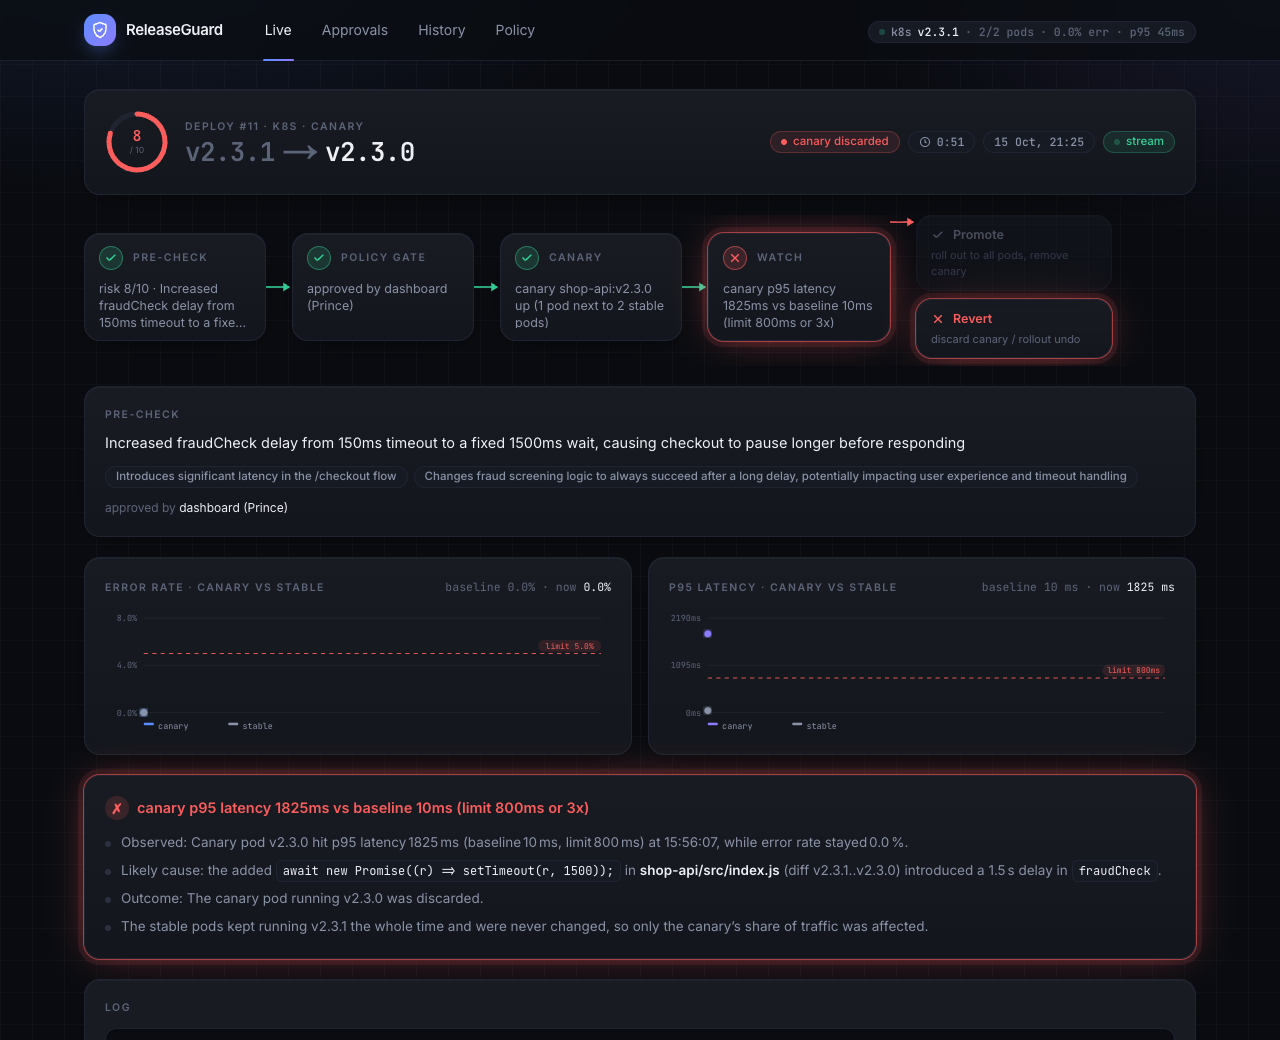
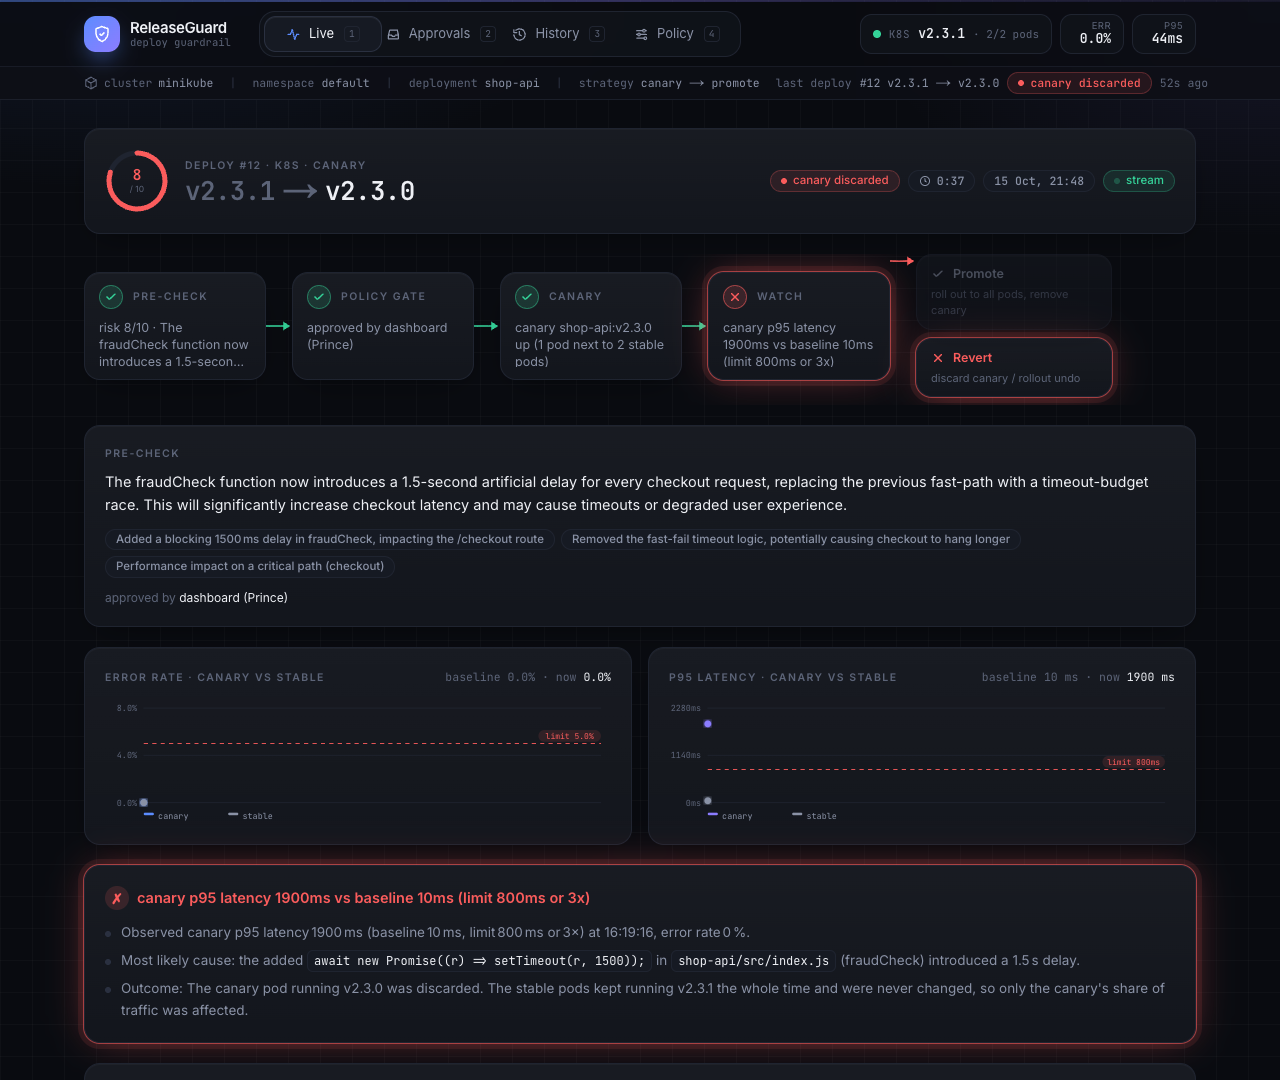
Dashboard: two-tier header with segmented tabs, status cluster, context strip and deploy progress bar

diff --git a/ui/components/Nav.tsx b/ui/components/Nav.tsx
@@ -1,47 +1,121 @@
 "use client";
 import Link from "next/link";
-import { usePathname } from "next/navigation";
-import { usePoll, type Approval, type Status } from "@/lib/api";
-import { Shield } from "./Icons";
+import { useEffect } from "react";
+import { usePathname, useRouter } from "next/navigation";
+import { usePoll, fmtTime, resultMeta, type Approval, type Status, type Deployment, type Config } from "@/lib/api";
+import { Shield, Activity, Inbox, History, Sliders, Cube } from "./Icons";
 
-const links = [["/", "Live"], ["/approvals/", "Approvals"], ["/history/", "History"], ["/policy/", "Policy"]] as const;
+const tabs = [
+  { href: "/", name: "Live", Icon: Activity, key: "1" },
+  { href: "/approvals/", name: "Approvals", Icon: Inbox, key: "2" },
+  { href: "/history/", name: "History", Icon: History, key: "3" },
+  { href: "/policy/", name: "Policy", Icon: Sliders, key: "4" },
+] as const;
+
+function ago(iso: string) {
+  const s = Math.max(0, Math.floor((Date.now() - new Date(iso).getTime()) / 1000));
+  if (s < 60) return `${s}s ago`; if (s < 3600) return `${Math.floor(s / 60)}m ago`; if (s < 86400) return `${Math.floor(s / 3600)}h ago`; return fmtTime(iso);
+}
 
 export function Nav() {
   const path = usePathname();
+  const router = useRouter();
   const { data: pending } = usePoll<Approval[]>("/api/approvals", 2000);
   const { data: st } = usePoll<Status>("/api/status", 5000);
+  const { data: latest } = usePoll<Deployment | null>("/api/deployments/latest", 3000);
+  const { data: cfg } = usePoll<Config>("/api/config", 30000);
   const n = pending?.length ?? 0;
+  const running = !!latest && !latest.result;
+  const activeIdx = tabs.findIndex((t) => (t.href === "/" ? path === "/" : path.startsWith(t.href.replace(/\/$/, ""))));
+
+  // keyboard: 1-4 switch tabs
+  useEffect(() => {
+    const h = (e: KeyboardEvent) => {
+      if (e.metaKey || e.ctrlKey || e.altKey || (e.target as HTMLElement)?.tagName === "INPUT") return;
+      const t = tabs.find((x) => x.key === e.key); if (t) router.push(t.href);
+    };
+    window.addEventListener("keydown", h); return () => window.removeEventListener("keydown", h);
+  }, [router]);
+
   return (
-    <header className="sticky top-0 z-20 backdrop-blur-md bg-bg/70 border-b border-line/80">
-      <div className="mx-auto max-w-6xl px-5 h-[60px] flex items-center gap-7">
-        <Link href="/" className="flex items-center gap-2.5 group">
-          <span className="grid place-items-center w-8 h-8 rounded-xl bg-gradient-to-br from-blue to-violet text-white shadow-[0_8px_20px_-8px_rgba(91,140,255,.9)]"><Shield className="w-4.5 h-4.5" /></span>
-          <span className="font-semibold tracking-tight text-[15px]">ReleaseGuard</span>
-        </Link>
-        <nav className="flex items-center gap-0.5 text-sm">
-          {links.map(([href, name]) => {
-            const active = href === "/" ? path === "/" : path.startsWith(href.replace(/\/$/, ""));
-            return (
-              <Link key={href} href={href} className={`relative px-3.5 py-2 rounded-lg transition-colors ${active ? "text-fg" : "text-mut hover:text-fg"}`}>
+    <header className="sticky top-0 z-20">
+      {/* progress hairline: animates while a deploy is running */}
+      <div className={`h-[2px] w-full ${running ? "bg-gradient-to-r from-blue via-violet to-ok shimmer-bar" : "bg-gradient-to-r from-blue/40 via-violet/30 to-transparent"}`} />
+      <div className="backdrop-blur-xl bg-bg/75 border-b border-line/80">
+        <div className="mx-auto max-w-6xl px-5 h-[64px] flex items-center gap-5">
+          {/* brand */}
+          <Link href="/" className="flex items-center gap-2.5 shrink-0">
+            <span className="relative grid place-items-center w-9 h-9 rounded-xl bg-gradient-to-br from-blue to-violet text-white shadow-[0_10px_24px_-8px_rgba(91,140,255,.9)]">
+              <Shield className="w-[18px] h-[18px]" />
+              {running && <span className="absolute -right-0.5 -top-0.5 w-2.5 h-2.5 rounded-full bg-ok border-2 border-bg dot-live" />}
+            </span>
+            <span className="leading-tight">
+              <span className="block font-semibold tracking-tight text-[15px]">ReleaseGuard</span>
+              <span className="block text-[10.5px] text-dim mono -mt-0.5">deploy guardrail</span>
+            </span>
+          </Link>
+
+          {/* segmented tabs */}
+          <nav className="relative ml-2 flex items-center p-1 rounded-2xl bg-panel/80 border border-line">
+            <span className="absolute top-1 bottom-1 rounded-xl bg-panel2 border border-line2 shadow-[inset_0_1px_0_rgba(255,255,255,.05)] transition-all duration-300 ease-[cubic-bezier(.2,.7,.2,1)]"
+              style={{ width: `calc((100% - 8px) / 4)`, left: `calc(4px + ${Math.max(0, activeIdx)} * ((100% - 8px) / 4))` }} />
+            {tabs.map(({ href, name, Icon, key }, i) => (
+              <Link key={href} href={href} className={`relative z-[1] flex items-center justify-center gap-2 w-[118px] h-9 rounded-xl text-[13px] transition-colors ${i === activeIdx ? "text-fg" : "text-mut hover:text-fg"}`}>
+                <Icon className={`w-[15px] h-[15px] ${i === activeIdx ? "text-blue" : ""}`} />
                 {name}
-                {name === "Approvals" && n > 0 && <span className="ml-1.5 pill pill-warn py-0.5 px-1.5">{n}</span>}
-                {active && <span className="absolute left-3 right-3 -bottom-[13px] h-[2px] rounded-full bg-gradient-to-r from-blue to-violet" />}
+                {name === "Approvals" && n > 0 && <span className="pill pill-warn py-0.5 px-1.5 ml-0.5 dot-live">{n}</span>}
+                <kbd className="hidden lg:inline text-[9.5px] text-dim mono border border-line rounded px-1 ml-0.5">{key}</kbd>
               </Link>
-            );
-          })}
-        </nav>
-        <div className="ml-auto">
-          {st?.running ? (
-            <div className="pill pill-mut mono text-[11px] py-1.5 pr-3">
-              <span className={`dot ${st.healthy ? "text-ok dot-live" : "text-bad"}`} />
-              <span className="text-mut">{st.target}</span>
-              <span className="text-fg">{st.running}</span>
-              {st.pods && <span className="text-dim">· {st.pods.ready}/{st.pods.desired} pods</span>}
-              <span className="text-dim">· {((st.errorRate ?? 0) * 100).toFixed(1)}% err · p95 {st.p95ms ?? "–"}ms</span>
-            </div>
-          ) : <div className="pill pill-mut mono text-[11px]"><span className="dot text-dim" />target offline</div>}
+            ))}
+          </nav>
+
+          {/* status cluster */}
+          <div className="ml-auto flex items-center gap-2">
+            {st?.running ? (
+              <>
+                <div className="hidden md:flex items-center gap-2 rounded-xl bg-panel/80 border border-line px-3 h-10">
+                  <span className={`relative flex w-2 h-2`}><span className={`absolute inset-0 rounded-full ${st.healthy ? "bg-ok" : "bg-bad"} opacity-60 animate-ping`} /><span className={`relative rounded-full w-2 h-2 ${st.healthy ? "bg-ok" : "bg-bad"}`} /></span>
+                  <span className="text-[11px] text-dim mono uppercase tracking-wider">{st.target}</span>
+                  <span className="text-[13px] mono text-fg font-semibold">{st.running}</span>
+                  {st.pods && <span className="text-[11px] text-dim mono">· {st.pods.ready}/{st.pods.desired} pods</span>}
+                </div>
+                <Stat label="err" value={`${((st.errorRate ?? 0) * 100).toFixed(1)}%`} tone={(st.errorRate ?? 0) > (cfg?.watch.rollback_if.error_rate_above ?? 0.05) ? "bad" : "ok"} />
+                <Stat label="p95" value={`${st.p95ms ?? "–"}ms`} tone={(st.p95ms ?? 0) > (cfg?.watch.rollback_if.p95_latency_above_ms ?? 800) ? "bad" : "ok"} />
+              </>
+            ) : <div className="pill pill-mut mono"><span className="dot text-dim" />target offline</div>}
+          </div>
+        </div>
+
+        {/* context strip */}
+        <div className="border-t border-line/60 bg-panel/40">
+          <div className="mx-auto max-w-6xl px-5 h-8 flex items-center gap-4 text-[11.5px] mono text-dim whitespace-nowrap overflow-hidden [&>*]:shrink-0">
+            <span className="flex items-center gap-1.5"><Cube className="w-3.5 h-3.5" />cluster <span className="text-mut">minikube</span></span>
+            <span className="text-line2">|</span>
+            <span>namespace <span className="text-mut">default</span></span>
+            <span className="text-line2">|</span>
+            <span>deployment <span className="text-mut">{cfg?.k8s.deployment ?? "shop-api"}</span></span>
+            <span className="text-line2">|</span>
+            <span>strategy <span className="text-mut">{cfg?.k8s.canary ? "canary → promote" : "rolling update"}</span></span>
+            {latest && (
+              <Link href="/" className="ml-auto flex items-center gap-2 hover:text-fg transition-colors">
+                <span className="text-dim">last deploy</span>
+                <span className="text-mut">#{latest.id} {latest.previous ?? "–"} → {latest.version}</span>
+                <span className={`pill ${resultMeta[latest.result ?? "running"].pill} py-0.5`}><span className={`dot ${running ? "dot-live" : ""}`} />{resultMeta[latest.result ?? "running"].label}</span>
+                <span className="text-dim">{ago(latest.started_at)}</span>
+              </Link>
+            )}
+          </div>
         </div>
       </div>
     </header>
+  );
+}
+
+function Stat({ label, value, tone }: { label: string; value: string; tone: "ok" | "bad" }) {
+  return (
+    <div className="hidden sm:flex flex-col items-end justify-center rounded-xl bg-panel/80 border border-line px-3 h-10 min-w-[64px]">
+      <span className="text-[9.5px] uppercase tracking-wider text-dim leading-none">{label}</span>
+      <span className={`text-[13px] mono font-semibold leading-tight ${tone === "bad" ? "text-bad" : "text-fg"}`}>{value}</span>
+    </div>
   );
 }

diff --git a/ui/components/Icons.tsx b/ui/components/Icons.tsx
@@ -6,3 +6,8 @@ export const X = ({ className = "" }: { className?: string }) => (<svg viewBox="
 export const Spinner = ({ className = "" }: { className?: string }) => (<svg viewBox="0 0 24 24" className={`${className} animate-spin`} fill="none" stroke="currentColor" strokeWidth="2.5" strokeLinecap="round"><path d="M12 3a9 9 0 1 0 9 9" /></svg>);
 export const Bolt = ({ className = "" }: { className?: string }) => (<svg viewBox="0 0 24 24" className={className} fill="none" stroke="currentColor" strokeWidth="2" strokeLinejoin="round"><path d="M13 2L4 14h7l-1 8 9-12h-7l1-8z"/></svg>);
 export const Clock = ({ className = "" }: { className?: string }) => (<svg viewBox="0 0 24 24" className={className} fill="none" stroke="currentColor" strokeWidth="2" strokeLinecap="round"><circle cx="12" cy="12" r="9"/><path d="M12 7v5l3 2"/></svg>);
+export const Activity = ({ className = "" }: { className?: string }) => (<svg viewBox="0 0 24 24" className={className} fill="none" stroke="currentColor" strokeWidth="2" strokeLinecap="round" strokeLinejoin="round"><path d="M3 12h4l3-8 4 16 3-8h4"/></svg>);
+export const Inbox = ({ className = "" }: { className?: string }) => (<svg viewBox="0 0 24 24" className={className} fill="none" stroke="currentColor" strokeWidth="2" strokeLinecap="round" strokeLinejoin="round"><path d="M4 13l2-8h12l2 8v6H4z"/><path d="M4 13h5l1.5 2h3L15 13h5"/></svg>);
+export const History = ({ className = "" }: { className?: string }) => (<svg viewBox="0 0 24 24" className={className} fill="none" stroke="currentColor" strokeWidth="2" strokeLinecap="round" strokeLinejoin="round"><path d="M3 12a9 9 0 1 0 3-6.7"/><path d="M3 4v5h5"/><path d="M12 7v5l3 2"/></svg>);
+export const Sliders = ({ className = "" }: { className?: string }) => (<svg viewBox="0 0 24 24" className={className} fill="none" stroke="currentColor" strokeWidth="2" strokeLinecap="round"><path d="M4 6h10M18 6h2M4 12h2M10 12h10M4 18h12M20 18h0"/><circle cx="16" cy="6" r="2"/><circle cx="8" cy="12" r="2"/><circle cx="18" cy="18" r="2"/></svg>);
+export const Cube = ({ className = "" }: { className?: string }) => (<svg viewBox="0 0 24 24" className={className} fill="none" stroke="currentColor" strokeWidth="2" strokeLinejoin="round"><path d="M12 2l9 5v10l-9 5-9-5V7l9-5z"/><path d="M12 12l9-5M12 12v10M12 12L3 7"/></svg>);

diff --git a/ui/app/globals.css b/ui/app/globals.css
@@ -82,3 +82,5 @@ input[type=checkbox] { accent-color: var(--color-blue); width: 15px; height: 15p
 .log-line { display: block; white-space: pre-wrap; }
 .log-head { color: var(--color-fg); font-weight: 600; }
 .log-ok { color: var(--color-ok); } .log-bad { color: var(--color-bad); } .log-warn { color: var(--color-warn); } .log-step { color: var(--color-blue); }
+@keyframes bar { 0% { background-position: 0% 0; } 100% { background-position: 200% 0; } }
+.shimmer-bar { background-size: 200% 100%; animation: bar 1.6s linear infinite; }

diff --git a/ui/app/layout.tsx b/ui/app/layout.tsx
@@ -13,7 +13,7 @@ export default function RootLayout({ children }: { children: React.ReactNode }) 
     <html lang="en" className={`${inter.variable} ${jet.variable}`}>
       <body className="min-h-screen antialiased">
         <Nav />
-        <main className="mx-auto max-w-6xl px-5 py-7">{children}</main>
+        <main className="mx-auto max-w-6xl px-5 py-7 rise">{children}</main>
       </body>
     </html>
   );
